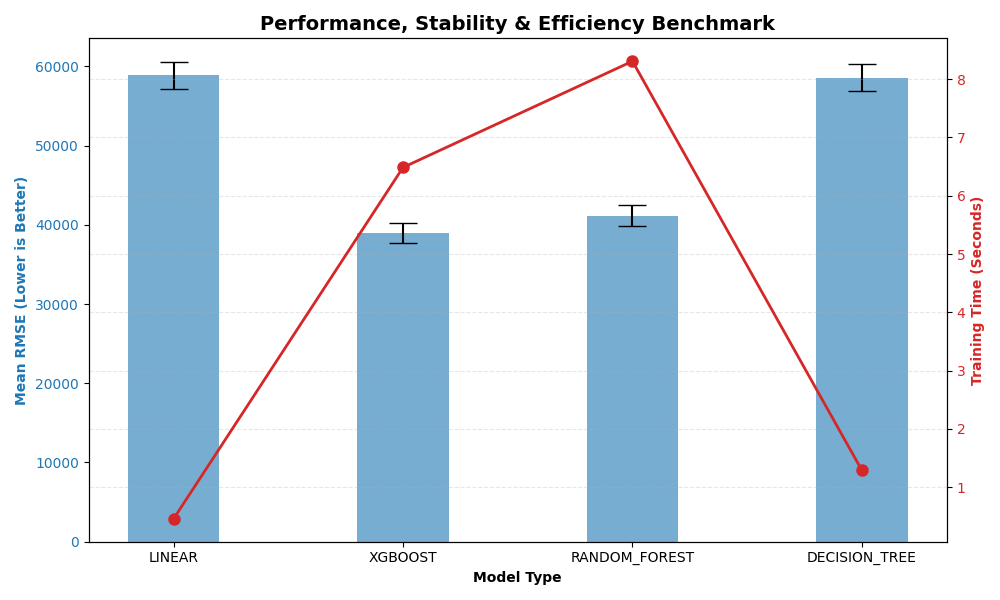
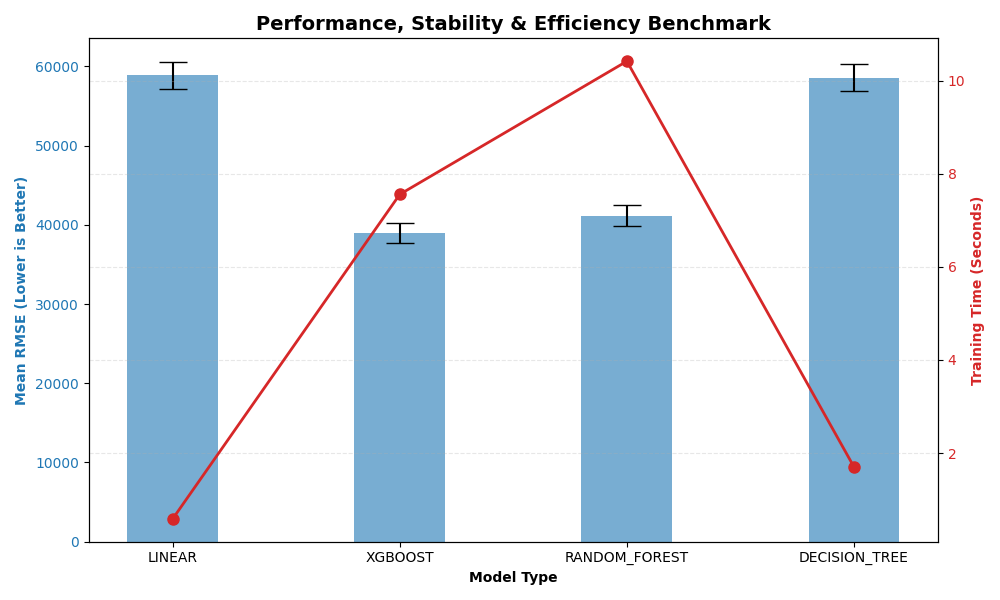
Expanded README.MD

diff --git a/fine_tuning.py b/fine_tuning.py
@@ -50,12 +50,10 @@ print("Best Params:", rnd_search.best_params_)
 joblib.dump(best_tuned_model, "models/housing_model_tuned.pkl")
 print(" Tuned model saved as housing_model_tuned.pkl")
 
-# ... (Previous code: Search, Fit, and Test Evaluation) ...
 
-# 1. DEFINE YOUR TOURNAMENT BENCHMARK (Manually enter from your evaluate.py results)
-# Replace these numbers with the ones from your 'Evaluating XGBOOST' terminal output
-benchmark_mean_rmse = 38912.20  # Example value
-benchmark_std_rmse = 1267.88  # Example value
+# 1. DEFINE  TOURNAMENT BENCHMARK (Manually enter from your evaluate.py results)
+benchmark_mean_rmse = 38912.20  
+benchmark_std_rmse = 1267.88  
 
 # 2. EXTRACT TUNED RESULTS
 tuned_mean_rmse = -rnd_search.best_score_

diff --git a/README.md b/README.md
@@ -1,7 +1,341 @@
-This project predicts house prices in California. Upon cleaning the data, and performing feature engineering. A number of candidate models were trained and compared (XGBOOST, Linear Regression, Decision Tree, Random Forest) using cross-validation. XGBOOST performed best in terms of RMSE score and time taken to train. Hence it was chosen as the model to implement. First its hyperparameters were fine-tuned using RandomisedSearchCV. Which further improved the RMSE scores. A FastAPI was set up to allow for individual house price predictions. The project was containerised using Docker to allow for cross-compatibility.
+# California Housing Price Prediction
 
-While in the root folder.
-To retrieve the dataset, split the data into train and test and clean the dataset - run "python main.py" in the terminal.
-The data is explored by running python exploration.py .
-The different ML models are compared by running python evaluate.py
-The FastAPI is inialised by running python server.py
+An end-to-end machine learning pipeline for predicting median house prices across California districts. The project covers the full data science workflow — from raw data ingestion and ETL preprocessing through model comparison, hyperparameter optimisation, and production deployment as a containerised REST API.
+
+---
+
+## Results
+
+| Model | Cross-Val RMSE | Training Time |
+|---|---|---|
+| Linear Regression | $58,854.70 | 0.45s |
+| Decision Tree | $58,562.56 | 1.32s |
+| Random Forest |$41,167.60 | 9.56s |
+| **XGBoost (baseline)** | **$38,912** | 6.42 |
+| **XGBoost (tuned)** | **$37,480** | Fast |
+
+XGBoost was selected as the final model based on its superior RMSE and training efficiency. Hyperparameter tuning via `RandomizedSearchCV` reduced RMSE by a further **$1,432** (~3.7%).
+
+---
+
+## Project Structure
+
+```
+.
+├── main.py              # Data ingestion, train/test split, ETL preprocessing
+├── exploration.py       # Exploratory data analysis and visualisations
+├── evaluate.py          # Model comparison via cross-validation
+├── fine_tuning.py       # XGBoost hyperparameter optimisation (RandomizedSearchCV)
+├── explain.py           # Model explainability (feature importances)
+├── server.py            # FastAPI REST API for live predictions
+├── test.py              # API and pipeline tests
+├── Dockerfile           # Container definition
+├── requirements.txt     # Python dependencies
+├── datasets/            # Raw and processed data
+├── models/              # Serialised trained models
+├── notebooks/           # Exploratory Jupyter notebooks
+└── src/                 # Core pipeline modules
+```
+
+---
+
+## Pipeline Overview
+
+```
+Raw Data
+   │
+   ▼
+main.py — Ingest → Train/Test Split → ETL (clean, transform, feature engineer) → validate
+   │
+   ▼
+exploration.py — Distribution analysis, correlation, geographic visualisation
+   │
+   ▼
+evaluate.py — Cross-validate: Linear Regression, Decision Tree, Random Forest, XGBoost
+   │
+   ▼
+fine_tuning.py — RandomizedSearchCV on XGBoost → serialise best model
+   │
+   ▼
+explain.py — Feature importance analysis
+   │
+   ▼
+server.py — FastAPI endpoint → Docker container
+```
+
+---
+
+## Installation & Usage
+
+### 1. Clone and install dependencies
+
+```bash
+git clone https://github.com/janwawrzynek/california_housing_project.git
+cd california_housing_project
+pip install -r requirements.txt
+```
+
+### 2. Fetch and preprocess the data
+
+Downloads the dataset, performs the train/test split, and runs the full ETL pipeline including data cleaning, transformation, and feature engineering. Strict data validation is applied at each stage before the processed data is written to `datasets/`.
+
+```bash
+python main.py
+```
+
+### 3. Explore the data
+
+Generates distribution plots, correlation matrices, and geographic visualisations of housing prices across California.
+
+```bash
+python exploration.py
+```
+
+### 4. Compare models
+
+Trains and cross-validates Linear Regression, Decision Tree, Random Forest, and XGBoost. Prints RMSE scores and training times for each.
+
+```bash
+python evaluate.py
+```
+
+### 5. Fine-tune XGBoost
+
+Runs `RandomizedSearchCV` over the XGBoost hyperparameter space and serialises the best model to `models/`.
+
+```bash
+python fine_tuning.py
+```
+
+### 6. Inspect feature importances
+
+Outputs feature importance rankings for the tuned XGBoost model.
+
+```bash
+python explain.py
+```
+
+### 7. Launch the prediction API
+
+Starts a FastAPI server locally. Once running, navigate to `http://localhost:8000/docs` for the interactive Swagger UI.
+
+```bash
+python server.py
+```
+
+**Example prediction request:**
+```bash
+curl -X POST "http://localhost:8000/predict" \
+  -H "Content-Type: application/json" \
+  -d '{
+    "MedInc": 8.3252,
+    "HouseAge": 41.0,
+    "AveRooms": 6.98,
+    "AveBedrms": 1.02,
+    "Population": 322.0,
+    "AveOccup": 2.56,
+    "Latitude": 37.88,
+    "Longitude": -122.23
+  }'
+```
+
+---
+
+## Docker
+
+The full application is containerised for cross-platform reproducibility.
+
+**Build the image:**
+```bash
+docker build -t california-housing .
+```
+
+**Run the container:**
+```bash
+docker run -p 8000:8000 california-housing
+```
+
+The API will be available at `http://localhost:8000`. No local Python environment required.
+
+---
+
+## Dataset
+
+The project uses the **California Housing dataset** derived from the 1990 US Census. Each row represents a census block group — the smallest geographical unit published by the US Census Bureau — with a typical population of 600–3,000 people.
+
+    longitude: float
+    latitude: float
+    housing_median_age: float
+    total_rooms: float
+    total_bedrooms: float
+    population: float
+    households: float
+    median_income: float
+    ocean_proximity: str
+---
+
+## Tech Stack
+
+| Tool | Role |
+|---|---|
+| `scikit-learn` | Preprocessing, model training, cross-validation |
+| `XGBoost` | Final prediction model |
+| `Pandas` / `NumPy` | Data manipulation and feature engineering |
+| `Matplotlib` | Visualisation |
+| `FastAPI` | REST API serving |
+| `Docker` | Containerisation |
+| `Git` | Version control |
+
+---
+
+## Requirements
+
+```
+alembic==1.18.4
+anyio==4.12.1
+appnope==0.1.4
+argon2-cffi==25.1.0
+argon2-cffi-bindings==25.1.0
+arrow==1.4.0
+asttokens==3.0.1
+async-lru==2.1.0
+attrs==25.4.0
+babel==2.18.0
+beautifulsoup4==4.14.3
+bleach==6.3.0
+certifi==2026.1.4
+cffi==2.0.0
+charset-normalizer==3.4.4
+cloudpickle==3.1.2
+colorlog==6.10.1
+comm==0.2.3
+contourpy==1.3.2
+cramjam==2.11.0
+curl_cffi==0.13.0
+cycler==0.12.1
+debugpy==1.8.20
+decorator==5.2.1
+defusedxml==0.7.1
+executing==2.2.1
+fastjsonschema==2.21.2
+fastparquet==2025.12.0
+filelock==3.20.3
+fonttools==4.59.0
+fqdn==1.5.1
+frozendict==2.4.7
+fsspec==2026.1.0
+h11==0.16.0
+httpcore==1.0.9
+httpx==0.28.1
+idna==3.11
+ipykernel==7.2.0
+ipython==9.10.0
+ipython_pygments_lexers==1.1.1
+isoduration==20.11.0
+jedi==0.19.2
+Jinja2==3.1.6
+joblib==1.5.3
+json5==0.13.0
+jsonpointer==3.0.0
+jsonschema==4.26.0
+jsonschema-specifications==2025.9.1
+jupyter-events==0.12.0
+jupyter-lsp==2.3.0
+jupyter_client==8.8.0
+jupyter_core==5.9.1
+jupyter_server==2.17.0
+jupyter_server_terminals==0.5.4
+jupyterlab==4.5.3
+jupyterlab_pygments==0.3.0
+jupyterlab_server==2.28.0
+kiwisolver==1.4.8
+lark==1.3.1
+llvmlite==0.46.0
+Mako==1.3.10
+MarkupSafe==3.0.3
+matplotlib==3.10.3
+matplotlib-inline==0.2.1
+mistune==3.2.0
+mpmath==1.3.0
+multitasking==0.0.12
+nbclient==0.10.4
+nbconvert==7.17.0
+nbformat==5.10.4
+nest-asyncio==1.6.0
+networkx==3.6.1
+notebook_shim==0.2.4
+numba==0.64.0
+numpy==2.3.1
+optuna==4.7.0
+packaging==25.0
+pandas==2.3.1
+pandocfilters==1.5.1
+parso==0.8.5
+peewee==3.19.0
+pexpect==4.9.0
+pillow==11.3.0
+platformdirs==4.5.1
+prometheus_client==0.24.1
+prompt_toolkit==3.0.52
+protobuf==6.33.4
+psutil==7.2.2
+ptyprocess==0.7.0
+pure_eval==0.2.3
+pyarrow==23.0.1
+pycparser==2.23
+Pygments==2.19.2
+pyparsing==3.2.3
+python-dateutil==2.9.0.post0
+python-json-logger==4.0.0
+pytz==2025.2
+PyYAML==6.0.3
+pyzmq==27.1.0
+referencing==0.37.0
+requests==2.32.5
+rfc3339-validator==0.1.4
+rfc3986-validator==0.1.1
+rfc3987-syntax==1.1.0
+rpds-py==0.30.0
+scikit-learn==1.8.0
+scipy==1.16.0
+Send2Trash==2.1.0
+setuptools==81.0.0
+shap==0.50.0
+six==1.17.0
+slicer==0.0.8
+soupsieve==2.8.2
+SQLAlchemy==2.0.46
+stack-data==0.6.3
+sympy==1.14.0
+terminado==0.18.1
+threadpoolctl==3.6.0
+tinycss2==1.4.0
+torch==2.10.0
+torchvision==0.25.0
+tornado==6.5.4
+tqdm==4.67.3
+traitlets==5.14.3
+typing_extensions==4.15.0
+tzdata==2025.2
+uri-template==1.3.0
+urllib3==2.6.3
+wcwidth==0.6.0
+webcolors==25.10.0
+webencodings==0.5.1
+websocket-client==1.9.0
+websockets==16.0
+wheel==0.46.3
+xgboost==3.2.0
+yfinance==1.0
+```
+
+Install all dependencies with:
+```bash
+pip install -r requirements.txt
+```
+
+---
+
+## License
+
+MIT License — see `LICENSE` for details.
